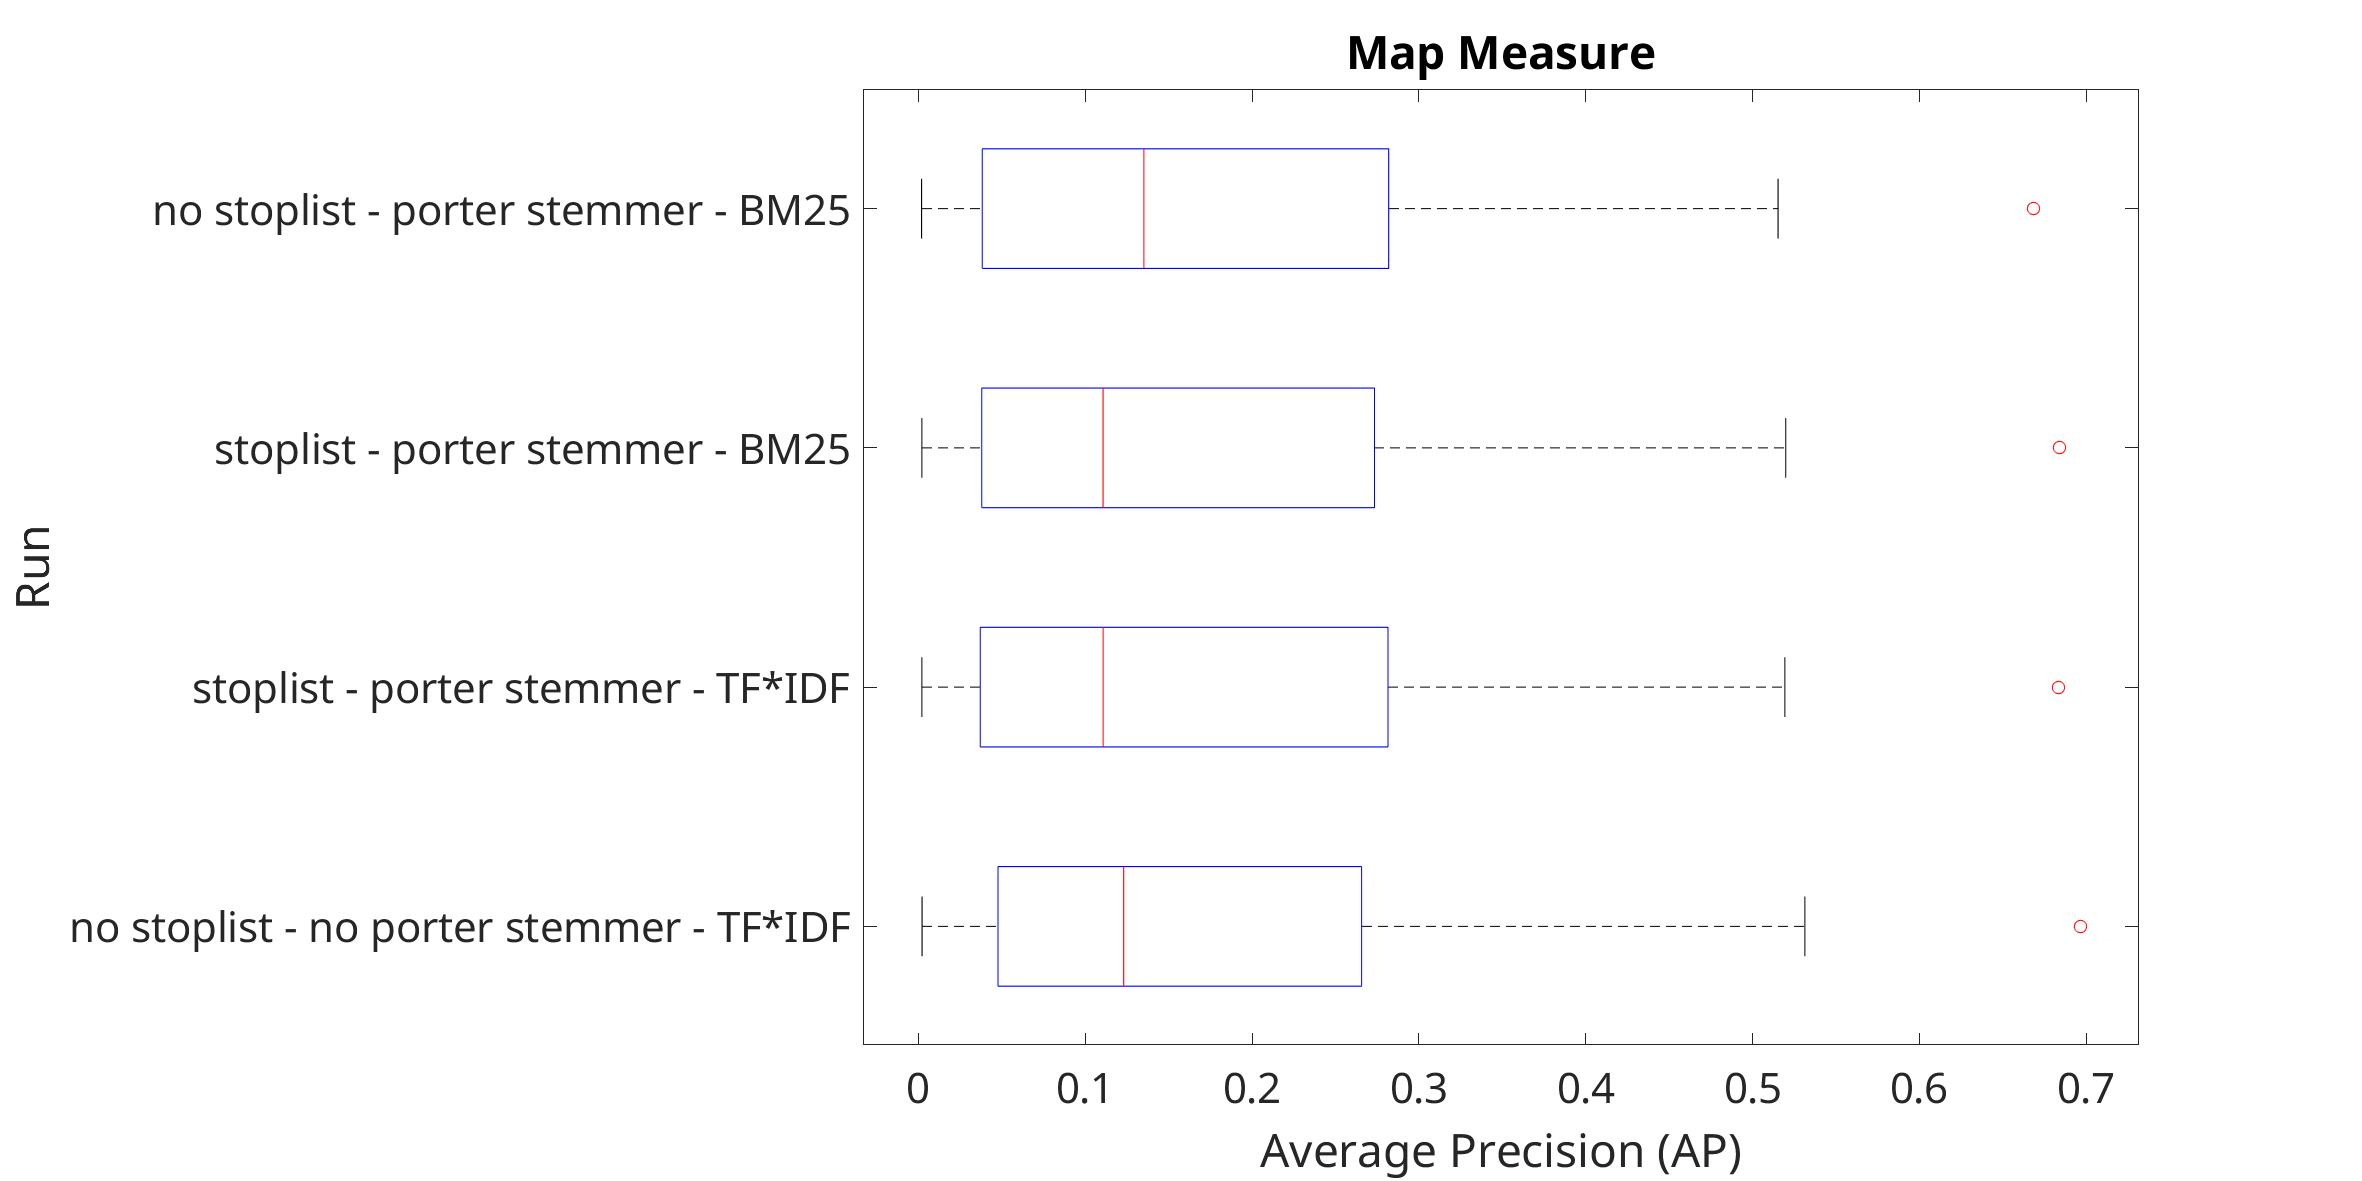
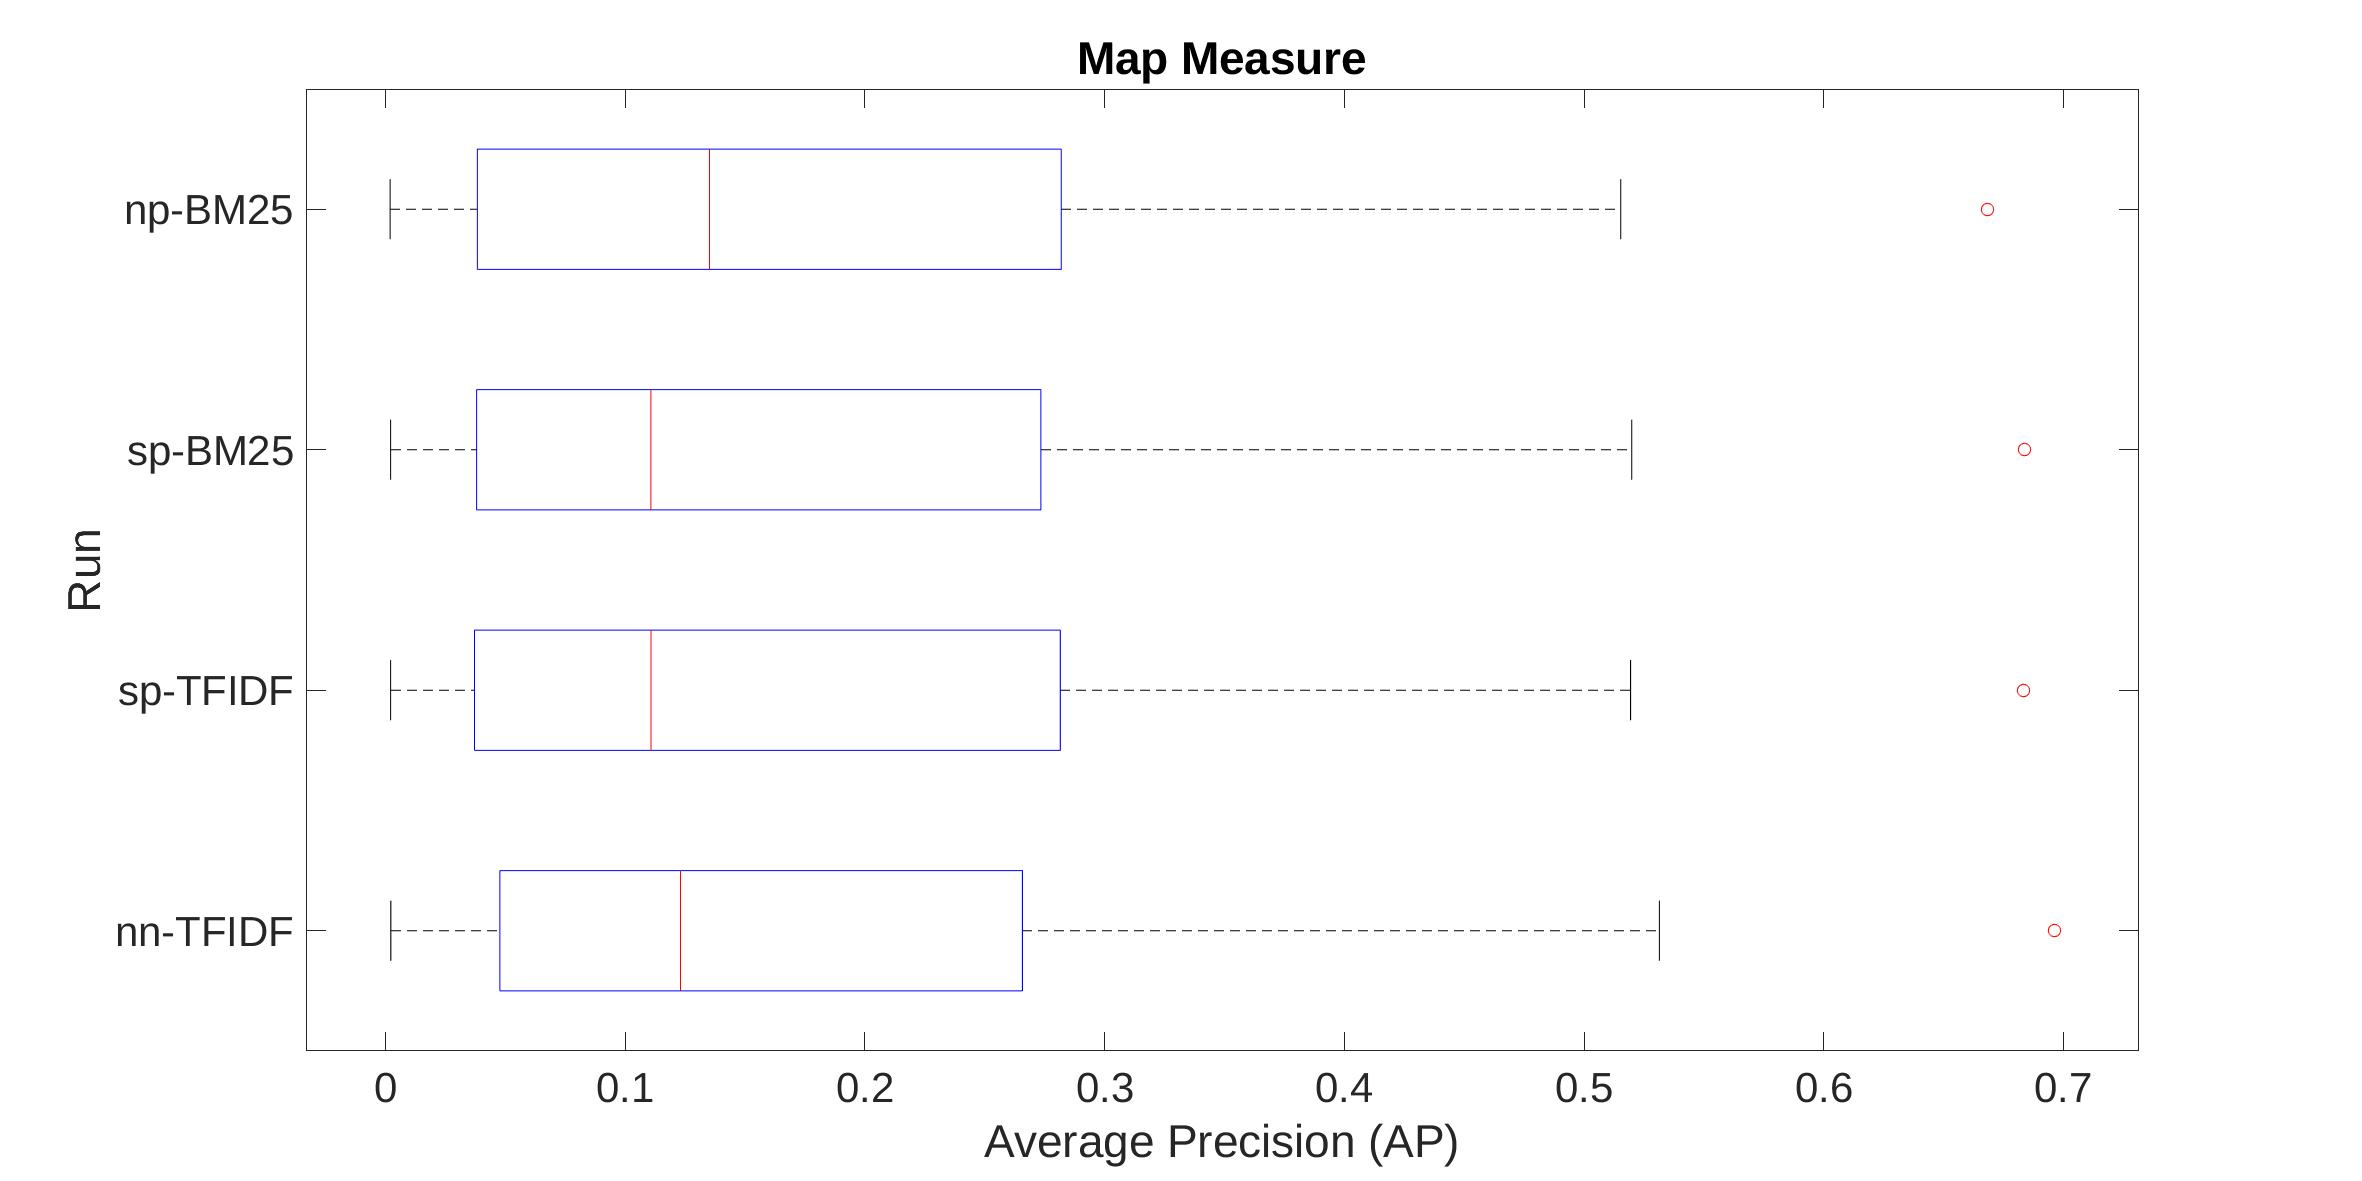
Edited plot labels

diff --git a/Code/anova.m b/Code/anova.m
@@ -35,7 +35,7 @@
 %%% MAP 
 %%%%%%%%%%%%%%%%%%%%%%%%%%%%%%%%%%%%%%%%%%%%%%
 measure=[sp_bm25_map_topics,np_bm25_map_topics,sp_tfidf_map_topics,nn_tfidf_map_topics];
-runID=["stoplist - porter stemmer - BM25","no stoplist - porter stemmer - BM25", "stoplist - porter stemmer - TF*IDF", "no stoplist - no porter stemmer - TF*IDF"];
+runID=["sp-BM25","np-BM25", "sp-TFIDF", "nn-TFIDF"];
 m = mean(measure);
 
 % sort in descending order of mean score
@@ -101,7 +101,7 @@ print(currentFigure, '-djpeg', './Plots/mean-boxplot.jpeg');
 %%% Rprec 
 %%%%%%%%%%%%%%%%%%%%%%%%%%%%%%%%%%%%%%%%%%%%%%
 measure=[sp_bm25_rprec_topics,np_bm25_rprec_topics,sp_tfidf_rprec_topics,nn_tfidf_rprec_topics];
-runID=["stoplist - porter stemmer - BM25","no stoplist - porter stemmer - BM25", "stoplist - porter stemmer - TF*IDF", "no stoplist - no porter stemmer - TF*IDF"];
+runID=["sp-BM25","np-BM25", "sp-TFIDF", "nn-TFIDF"];
 m = mean(measure);
 
 % sort in descending order of mean score
@@ -165,7 +165,7 @@ print(currentFigure, '-djpeg', './Plots/rprec-boxplot.jpeg');
 %%% Precision at 10
 %%%%%%%%%%%%%%%%%%%%%%%%%%%%%%%%%%%%%%%%%%%%%%
 measure=[sp_bm25_p10_topics,np_bm25_p10_topics,sp_tfidf_p10_topics,nn_tfidf_p10_topics];
-runID=["stoplist - porter stemmer - BM25","no stoplist - porter stemmer - BM25", "stoplist - porter stemmer - TF*IDF", "no stoplist - no porter stemmer - TF*IDF"];
+runID=["sp-BM25","np-BM25", "sp-TFIDF", "nn-TFIDF"];
 m = mean(measure);
 
 % sort in descending order of mean score
